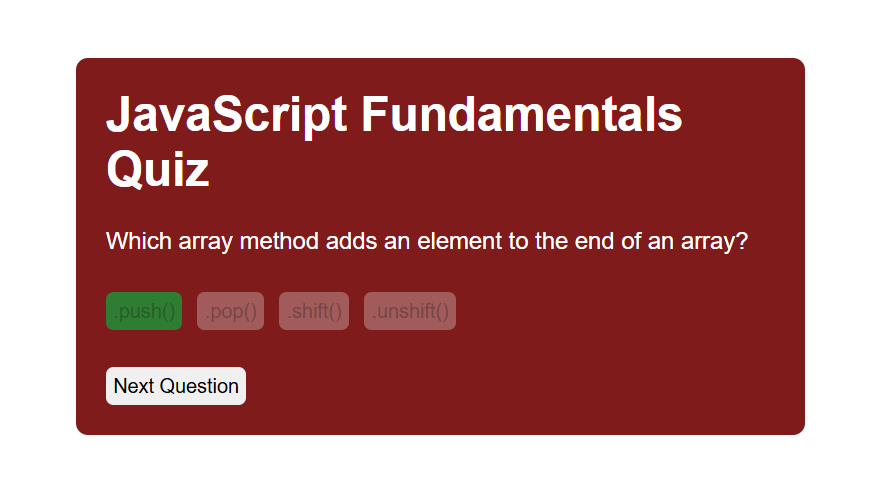
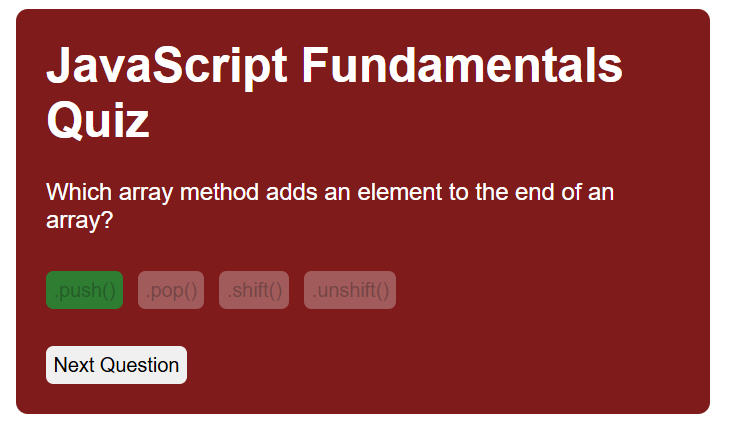
README updates

diff --git a/README.md b/README.md
@@ -11,14 +11,11 @@ A simple interactive quiz built using HTML, CSS, and JavaScript. Users can answe
 - Restart functionality
 
 ## Screenshots
-Home Screen:
-<img src="./screenshots/quiz-start.png" width="350">
-
-Question View:
-<img src="./screenshots/question-view.png" width="350">
-
-Score Screen:
-<img src="./screenshots/score-screen.png" width="350">
+<p align="center">
+   <img src="./screenshots/quiz-start.png" width="300">
+   <img src="./screenshots/question-view.png" width="300">
+   <img src="./screenshots/score-screen.png" width="300">
+</p>
 
 ## How to Run
 
